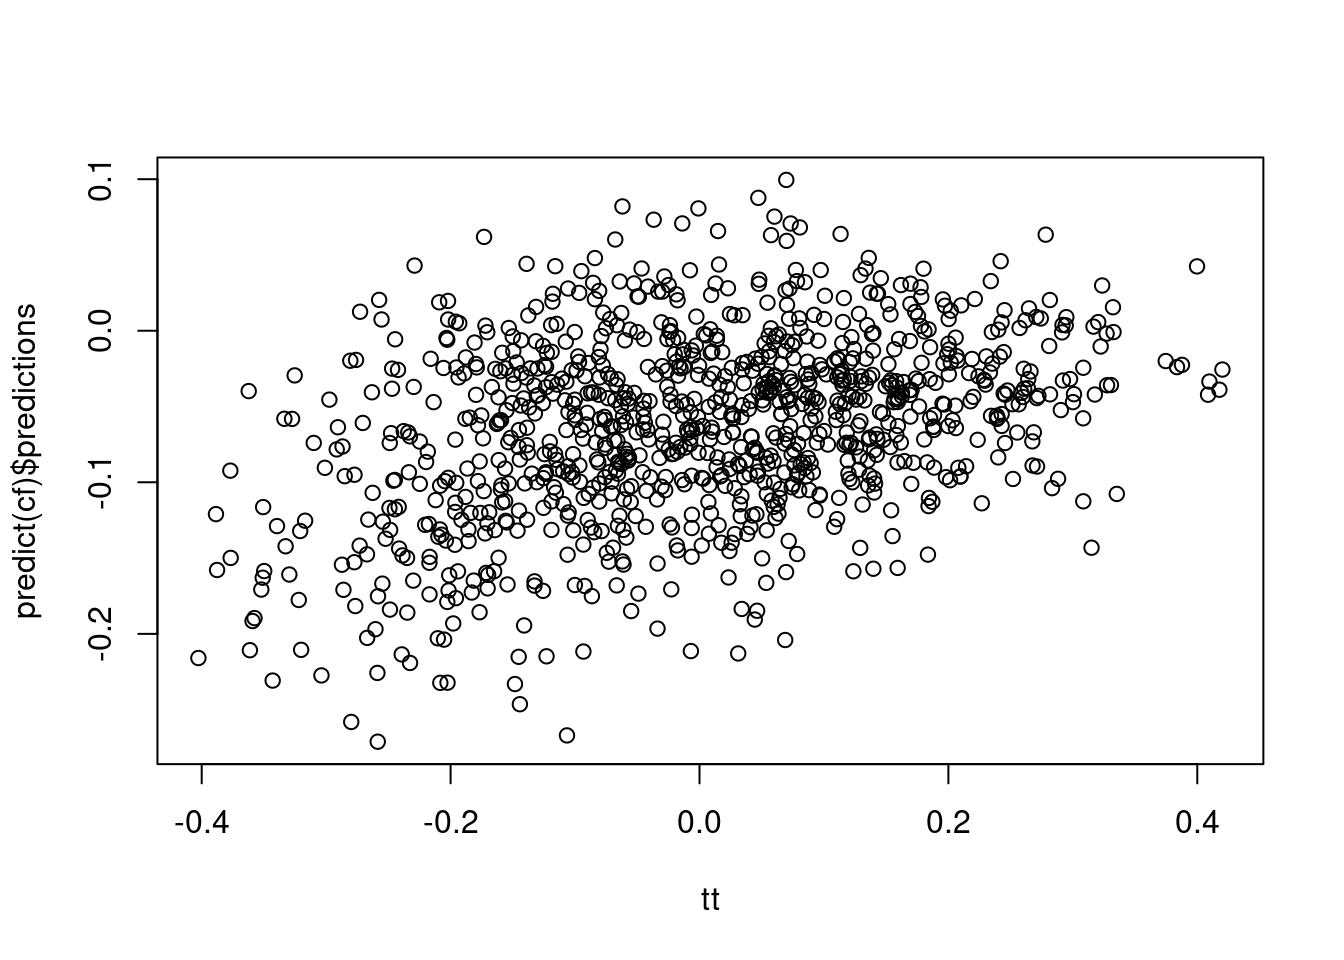
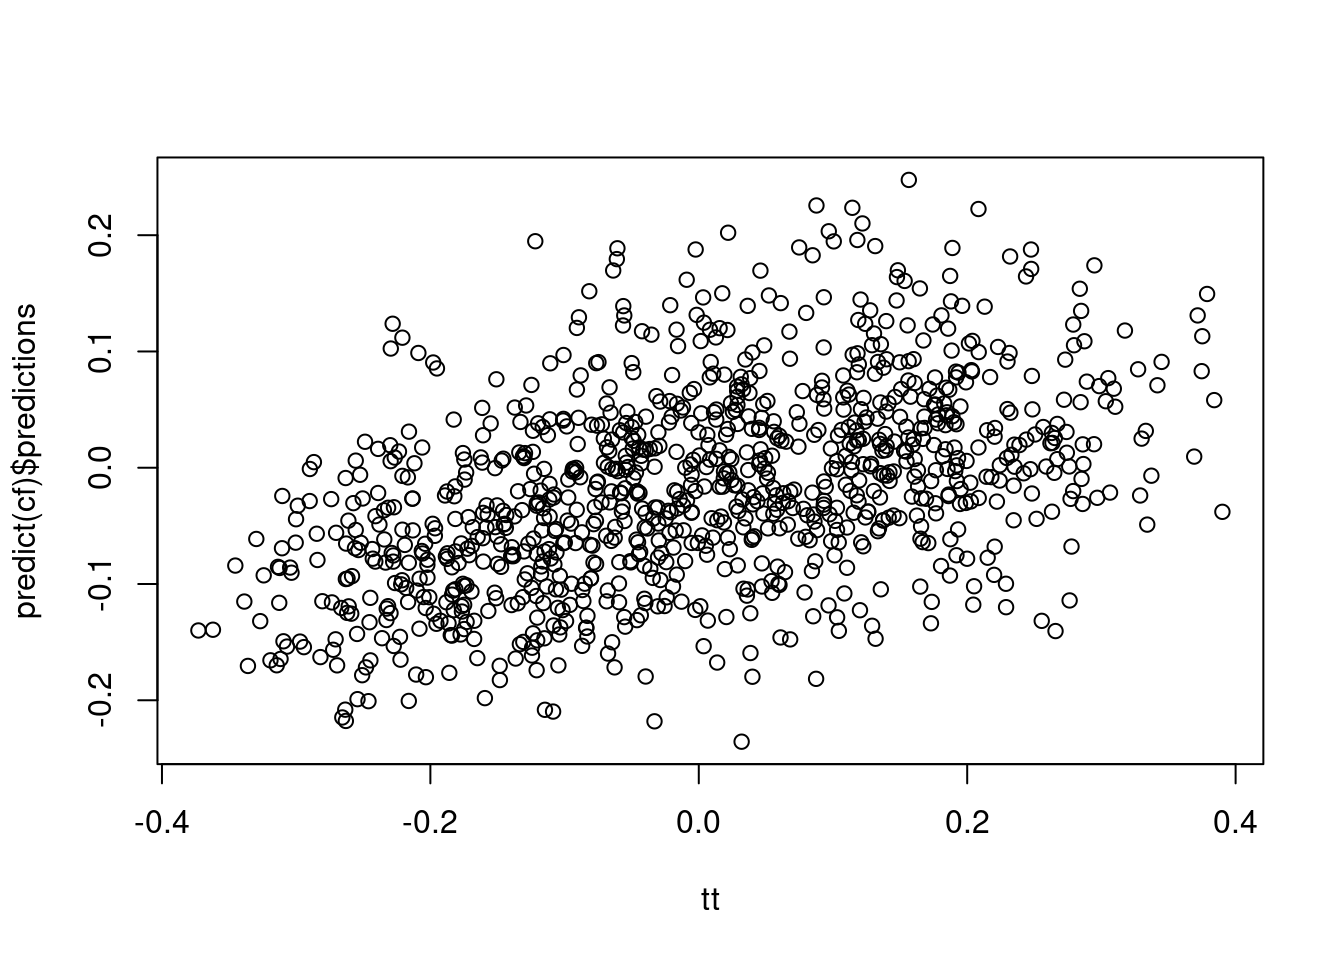
policy3

diff --git a/content/post/2024_3_22_policytree.html b/content/post/2024_3_22_policytree.html
@@ -33,7 +33,7 @@ We can see we can simply set <span class="math inline">\(\tau(X) &gt; c\)</span>
 </div>
 <div id="ipw-loss" class="section level1">
 <h1>IPW loss</h1>
-<p>Kitagawa and Tetenov (2020) proposed a loss function for policy learning. The loss function is based on the inverse propensity weighting.</p>
+<p>Kitagawa and Tetenov (2018) proposed a loss function for policy learning. The loss function is based on the inverse propensity weighting.</p>
 <p><span class="math display">\[
 \hat \pi = argmax \{ \hat V(\pi) : \pi \in \Pi \}
 \]</span>
@@ -45,9 +45,9 @@ We can see we can simply set <span class="math inline">\(\tau(X) &gt; c\)</span>
 </div>
 <div id="aipw-loss" class="section level1">
 <h1>AIPW loss</h1>
-<p>The IPW loss can be not robust to model misspecification. Athey and Wager (2018) proposed a loss function that is robust to model misspecification. The loss function is based on the doubly robust estimator, AIPW.</p>
+<p>The IPW loss can be not robust to model misspecification. Athey and Wager (2021) proposed a loss function that is robust to model misspecification. The loss function is based on the doubly robust estimator, AIPW.</p>
 <p><span class="math display">\[
-\hat \pi = argmax \{ \hat V(\pi) : \pi \in \Pi}
+\hat \pi = argmax \{ \hat V(\pi) : \pi \in \Pi \}
 \]</span>
 <span class="math display">\[
 \hat V(\pi) = \frac{1}{n} \sum_{i=1}^n (2\pi(X_i)-1) \hat \Gamma_i
@@ -84,19 +84,19 @@ tree</code></pre>
 ## Tree depth:  2 
 ## Actions:  1: control 2: treated 
 ## Variable splits: 
-## (1) split_variable: X2  split_value: 0.0634645 
-##   (2) split_variable: X1  split_value: 0.431149 
-##     (4) * action: 2 
-##     (5) * action: 1 
-##   (3) split_variable: X3  split_value: 0.738248 
-##     (6) * action: 1 
-##     (7) * action: 2</code></pre>
+## (1) split_variable: X3  split_value: -0.984576 
+##   (2) split_variable: X8  split_value: 1.61436 
+##     (4) * action: 1 
+##     (5) * action: 2 
+##   (3) split_variable: X1  split_value: 0.324348 
+##     (6) * action: 2 
+##     (7) * action: 1</code></pre>
 <pre class="r"><code>pp &lt;- predict(tree, X)
 boxplot(tt ~ pp)</code></pre>
 <p><img src="/post/2024_3_22_policytree_files/figure-html/unnamed-chunk-1-2.png" width="672" /></p>
 <pre class="r"><code>plot(tree)</code></pre>
 <div class="grViz html-widget html-fill-item" id="htmlwidget-1" style="width:672px;height:480px;"></div>
-<script type="application/json" data-for="htmlwidget-1">{"x":{"diagram":"digraph nodes { \n node [shape=box] ;\n0 [label=\" X2 <= 0.06 \"] ;\n0 -> 1 [labeldistance=2.5, labelangle=45, headlabel=\"True\"];\n0 -> 2 [labeldistance=2.5, labelangle=-45, headlabel=\"False\"]\n1 [label=\" X1 <= 0.43 \"] ;\n1 -> 3  ;\n1 -> 4  ;\n3  [shape=box,style=filled,color=\".7 .3 1.0\" , label=\" leaf node\n action = 2 \"];\n4  [shape=box,style=filled,color=\".7 .3 1.0\" , label=\" leaf node\n action = 1 \"];\n2 [label=\" X3 <= 0.74 \"] ;\n2 -> 5  ;\n2 -> 6  ;\n5  [shape=box,style=filled,color=\".7 .3 1.0\" , label=\" leaf node\n action = 1 \"];\n6  [shape=box,style=filled,color=\".7 .3 1.0\" , label=\" leaf node\n action = 2 \"];\n}","config":{"engine":"dot","options":null}},"evals":[],"jsHooks":[]}</script>
+<script type="application/json" data-for="htmlwidget-1">{"x":{"diagram":"digraph nodes { \n node [shape=box] ;\n0 [label=\" X3 <= -0.98 \"] ;\n0 -> 1 [labeldistance=2.5, labelangle=45, headlabel=\"True\"];\n0 -> 2 [labeldistance=2.5, labelangle=-45, headlabel=\"False\"]\n1 [label=\" X8 <= 1.61 \"] ;\n1 -> 3  ;\n1 -> 4  ;\n3  [shape=box,style=filled,color=\".7 .3 1.0\" , label=\" leaf node\n action = 1 \"];\n4  [shape=box,style=filled,color=\".7 .3 1.0\" , label=\" leaf node\n action = 2 \"];\n2 [label=\" X1 <= 0.32 \"] ;\n2 -> 5  ;\n2 -> 6  ;\n5  [shape=box,style=filled,color=\".7 .3 1.0\" , label=\" leaf node\n action = 2 \"];\n6  [shape=box,style=filled,color=\".7 .3 1.0\" , label=\" leaf node\n action = 1 \"];\n}","config":{"engine":"dot","options":null}},"evals":[],"jsHooks":[]}</script>
 <pre class="r"><code>plot(X[, 1], X[, 2], col = pp)
 abline(0, -1, lwd = 4, col = 4)</code></pre>
 <p><img src="/post/2024_3_22_policytree_files/figure-html/unnamed-chunk-1-4.png" width="672" /></p>
